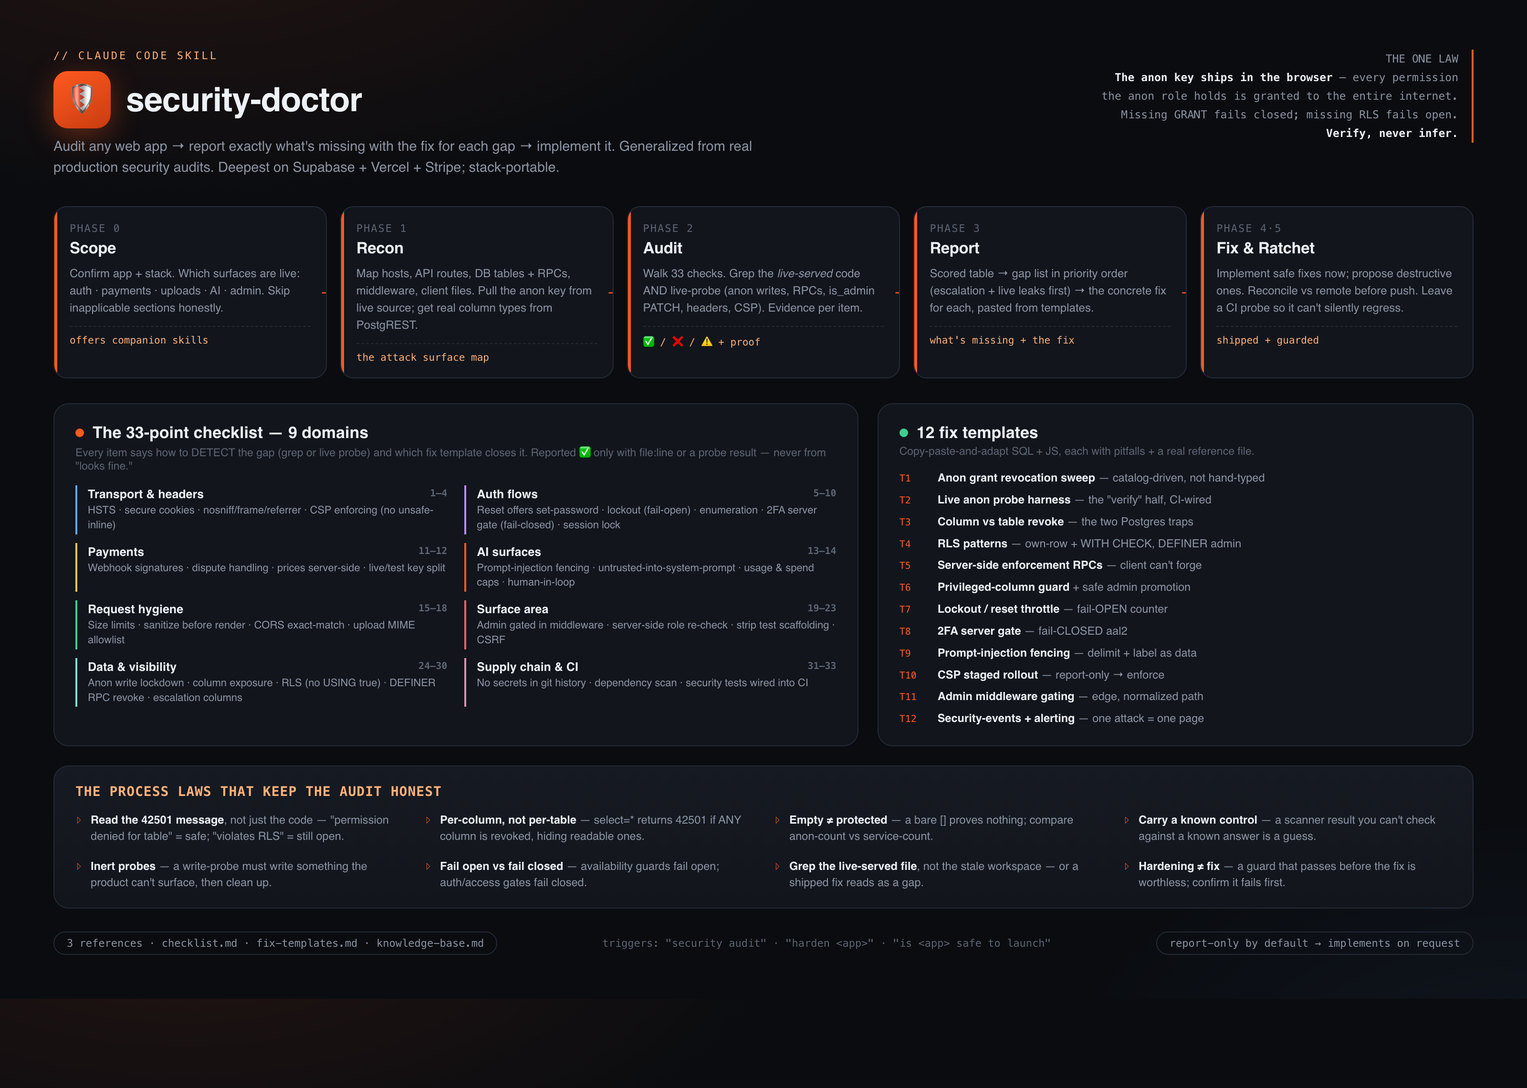
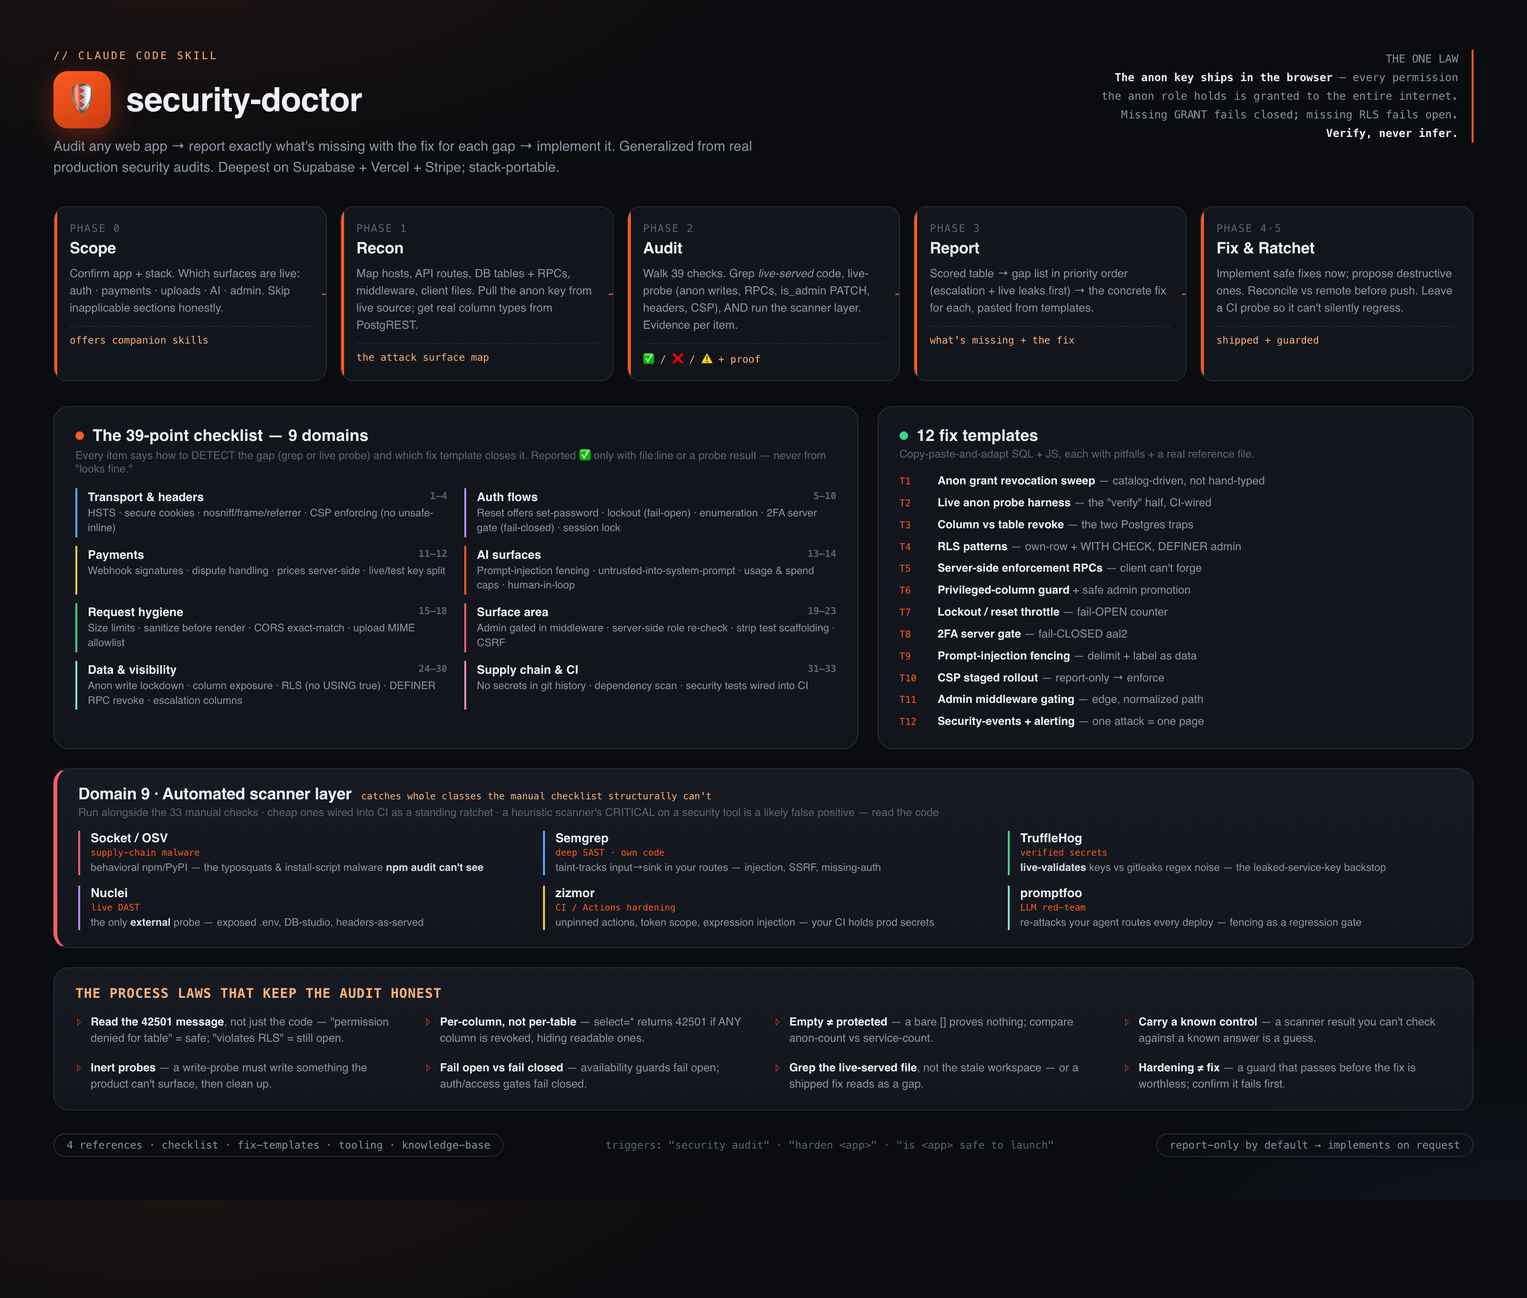
Add the scanner layer (domain 9): Semgrep, TruffleHog, Nuclei, zizmor, Socket/OSV, promptfoo
39-point checklist = 33 manual checks + a 6-tool automated scanner layer that catches
classes the manual pass structurally can't (supply-chain malware, own-code taint paths,
live external exposure, CI-workflow attack surface). New references/tooling.md with install
+ exact command per tool; README scanner-layer section; updated map.

diff --git a/SKILL.md b/SKILL.md
@@ -1,6 +1,6 @@
 ---
 name: security-doctor
-description: Audit any web app's security against a battle-tested 33-point checklist, report exactly what's missing with the fix for each gap, then implement the fixes. Covers anon/RLS lockdown, privilege-escalation, auth/2FA, CSP, prompt-injection, payments, and supply chain. Trigger on "security audit", "security check", "is <app> safe to launch", "harden <app>", "run the security checklist", or before launching any app/feature touching auth, payments, uploads, or AI. Stack-portable — deepest on Supabase + Vercel + Stripe.
+description: Audit any web app's security against a battle-tested 39-point checklist (33 manual checks + a 6-tool automated scanner layer), report exactly what's missing with the fix for each gap, then implement the fixes. Covers anon/RLS lockdown, privilege-escalation, auth/2FA, CSP, prompt-injection, payments, and supply chain — plus a scanner layer (Semgrep SAST, TruffleHog verified secrets, Nuclei live DAST, zizmor CI hardening, Socket supply-chain malware, promptfoo LLM red-team). Trigger on "security audit", "security check", "is <app> safe to launch", "harden <app>", "run the security checklist", or before launching any app/feature touching auth, payments, uploads, or AI. Stack-portable — deepest on Supabase + Vercel + Stripe.
 ---
 
 # Security Doctor
@@ -13,8 +13,9 @@ Built to be reusable across any app. The knowledge is generalized from real prod
 **The publishable/anon key ships in the client bundle — every permission the `anon` role holds is granted to the entire internet.** A missing GRANT fails closed; a missing RLS policy fails open. And: **verify, never infer** — a finding is real only when a live probe with the public key returned the denial code, not when code "looks admin-only." The five traps that fake success are in `references/checklist.md`; read them before reporting anything green.
 
 ## Reference files (load as needed — don't dump all into context)
-- `references/checklist.md` — the 33-item scored checklist: what to verify, how to detect each gap (grep/probe), and which fix template applies. **This is the audit spine.**
+- `references/checklist.md` — the 39-item scored checklist (33 manual + 6 scanner): what to verify, how to detect each gap (grep/probe/scan), and which fix template applies. **This is the audit spine.**
 - `references/fix-templates.md` — 12 copy-paste-and-adapt fixes (SQL + JS), each with pitfalls and the failure mode it closes.
+- `references/tooling.md` — the **scanner layer** (domain 9): Semgrep, TruffleHog, Nuclei, zizmor, Socket/OSV, promptfoo + audit-firm companion skills. Install + exact command + what class each catches that the manual pass can't. Load when running the automated pass or wiring CI.
 - `references/knowledge-base.md` — the *why* behind every check: the incident class that taught it, grouped by theme. Read a section when a finding is subtle or the user asks why.
 
 ## Workflow
@@ -35,7 +36,9 @@ Walk the checklist top to bottom. For each item:
 - Record status (✅/❌/⚠/⏭) **with evidence** — `file:line` or the exact probe result. Never mark ✅ from appearance.
 - Probing rules that keep you honest (full detail in `knowledge-base.md` §e): read the 42501 MESSAGE not just the code; send a REAL column value (a `{}` PATCH proves nothing); a bare `[]` proves nothing; probe PER COLUMN; carry a known-blocked AND a known-open control; probe inserts without `return=representation`. **Every probe that writes must write something the product cannot surface** (draft/inactive state, or a constraint-violating payload that never creates a row) — and clean up.
 
-For a large surface, fan out read-only sub-agents by section (DB/RLS, auth, CSP/headers, payments, AI, supply chain) and merge — but you own the merge and the live re-verification.
+**Run the scanner layer (domain 9 — `tooling.md`).** Alongside the manual checks, run the automated scanners that catch classes the checklist can't: **Semgrep** (SAST on the app's own code), **TruffleHog** `--only-verified` (secrets), **zizmor** (`.github/workflows/`) during the code pass; **Nuclei** (`-tags exposure,misconfiguration`, own/authorized hosts only) during the live pass; **Socket/OSV** at dependency review; **promptfoo** against tool-using LLM routes. Install one-liners + exact commands are in `tooling.md`. Record 0-finding runs as evidence, and confirm each scanner actually ran (a skipped/errored scan looks identical to a clean one). Treat a heuristic scanner's CRITICAL on a *security* skill/tool as a likely false positive — read the code before believing it.
+
+For a large surface, fan out read-only sub-agents by section (DB/RLS, auth, CSP/headers, payments, AI, supply chain, scanner layer) and merge — but you own the merge and the live re-verification.
 
 ### 3. Report (exactly what's missing + the fix)
 Produce, in the final message:
@@ -53,7 +56,7 @@ If the user was only *asking* whether the app is safe (not asking you to change 
 - Preview any UI-affecting change; then **verify live** the fix actually landed (real signal, known control) and **don't over-verify** — one clean pass, then ship.
 
 ### 5. Prove it (leave a ratchet)
-Where the stack supports it, leave the **anon-probe harness + source ratchet** ([T2]) wired into CI so the fix can't silently regress. A guard that passes before the fix is worthless — confirm it fails first.
+Where the stack supports it, leave the **anon-probe harness + source ratchet** ([T2]) wired into CI so the fix can't silently regress. A guard that passes before the fix is worthless — confirm it fails first. Add the cheap scanners to the same CI gate — **gitleaks + Semgrep (SARIF) + zizmor** on every push; **Nuclei** weekly / post-deploy; **promptfoo** on the agent routes (`tooling.md`). Each scanner in CI is a standing ratchet against the class it covers.
 
 ## Adapting to a non-Supabase / non-Vercel app
 The checklist's intent is universal; only the mechanism changes. Authorization must key on a server-trusted identity claim (not a client field); privileged fields must be non-writable by the client; every privileged route re-checks server-side; untrusted content into an LLM gets fenced; secrets never reach the client or git history; CSP/headers ship enforcing after a report-only bake. Translate each ⚙ item to the target's equivalent (row security, grants, middleware) and keep the process laws in `knowledge-base.md §i` verbatim — they're stack-agnostic.

diff --git a/references/tooling.md b/references/tooling.md
@@ -1,0 +1,70 @@
+# Security Doctor — The Scanner Layer
+
+The 33 manual checks are things you verify by hand or by live probe. This layer is the **automated scanners** that catch whole CLASSES the manual pass structurally can't see: supply-chain malware, your own code's taint paths, live external exposure, and CI-workflow attack surface. Run them as part of every audit; wire the cheap ones into CI as a ratchet.
+
+**They complement, never replace, the checklist** — and a scanner result still obeys *verify, never infer*: read the findings, carry a known control, and **never trust a CRITICAL from a heuristic scanner without reading the code** — a security *tool* and a security *threat* share vocabulary, so scanners routinely flag a security skill's own threat-catalog or defensive docs as malicious. (Seen in practice: a skill-scanner rated a top-tier audit firm's Semgrep runner CRITICAL because its SKILL.md said *"never auto-execute commands that modify…"* — the scanner matched the safety guidance as the threat.)
+
+## The six scanners
+
+### 1 · Supply-chain malware — Socket / OSV-Scanner
+**Gap:** `npm audit` only knows *disclosed CVEs*. It catches zero typosquats, hijacked-maintainer packages, or malicious install scripts — the packages with no advisory the day they land. This is the single class conventional SCA is structurally blind to.
+- **Socket** (behavioral, GitHub App) — flags a dependency that reads env, opens network, or runs install scripts. Install the GitHub App → it comments on PRs. Deepest on the JS ecosystem.
+- **OSV-Scanner** (CLI) — `osv-scanner scan --recursive .` — advisory + malicious-package feed; covers Python `requirements.txt` / Go too.
+Run on every dependency change.
+
+### 2 · Deep SAST on your own code — Semgrep CE
+**Gap:** nothing in the manual pass scans *your own code* semantically. Semgrep taint-tracks user input → sink: an unsanitized param into a DB `.rpc()`/raw SQL, `dangerouslySetInnerHTML`, an SSRF `fetch`, a route missing its auth check.
+```bash
+pipx install semgrep
+semgrep --config p/javascript --config p/nodejs --config p/owasp-top-ten \
+  --exclude vendor --exclude node_modules <src dirs>
+```
+Add `p/python`, `p/react`, `p/typescript`, `p/jwt`, `p/secrets`, `p/sql-injection` as the stack warrants. `--sarif -o out.sarif` for CI. Registry rulesets work out of the box; tune false positives over time.
+
+### 3 · Verified secrets — TruffleHog
+**Gap:** a regex secret scanner (gitleaks) tells you a string *looks* like a key — noise (rotated keys, examples, test values). TruffleHog **live-verifies** — it logs into the provider to confirm the key still works — turning "500 hits to triage" into "3 that actually work, rotate these." It also scans surfaces gitleaks doesn't: Docker images, cloud buckets, CI logs, a built mobile bundle.
+```bash
+brew install trufflehog
+trufflehog filesystem <dir> --results=verified,unknown
+trufflehog git <repo-url> --only-verified
+```
+Keep gitleaks for the fast full-history regex sweep; add TruffleHog as the verification layer on top. A leaked service-role / admin key bypasses ALL row-security work — this is the backstop.
+
+### 4 · Live DAST — Nuclei
+**Gap:** every manual check is static / config-time. Nuclei is the only *external* probe of the DEPLOYED app — exposed `.env`, exposed DB-studio / admin consoles, backup files, default creds, known-CVE fingerprints, and headers/CSP verified **as served from the edge** (not just as configured).
+```bash
+brew install nuclei
+nuclei -u https://<host> -tags exposure,misconfiguration \
+  -severity low,medium,high,critical -rate-limit 20
+```
+Own infra / authorized targets only. Run weekly or post-deploy, not per-commit. `-sarif-export` to fail CI.
+
+### 5 · CI / GitHub Actions hardening — zizmor
+**Gap:** once you run security IN CI, your CI *is* attack surface — it holds prod secrets. zizmor is SAST for workflow YAML: unpinned actions (tag not SHA — the supply-chain-poisoning class), expression injection via `${{ github.event.* }}`, over-broad `GITHUB_TOKEN`, credential persistence on checkout.
+```bash
+pipx install zizmor
+zizmor .github/workflows/
+```
+**Fix pattern:** pin every `uses:` to a full commit SHA; set job-level `permissions:` least-privilege; add `persist-credentials: false` to `actions/checkout`; never splice `github.event` text into a `run:` block (assign to an `env:` var first).
+
+### 6 · LLM red-team — promptfoo
+**Gap:** prompt-injection fencing is written once and never regression-tested. promptfoo turns "I fenced it" into a repeatable gate: it re-runs a jailbreak / injection / tool-abuse suite against your LLM ROUTE (system prompt + fences + tools) every deploy, so a prompt-template edit can't silently reopen the hole. It tests the *application*, which is what ships.
+```bash
+npm i -g promptfoo   # or: npx promptfoo@latest redteam run
+```
+Write a redteam config per LLM endpoint. Scope to **tool-using agent routes** (where injection → tool abuse is the real risk); overkill for a one-shot summarizer.
+
+## Companion agent skills (audit-firm methodology)
+Installable skills that add process the checklist doesn't have. Vet any third-party skill before install (a skill-scanner such as NVIDIA `skillspector`), but **read the code on any CRITICAL for a security skill** — false positives are the norm there.
+- **`differential-review`** (Trail of Bits) — security review of a git diff / PR; catches per-change regressions where the checklist audits whole-app state.
+- **`static-analysis` / semgrep** (Trail of Bits) — a fuller SAST pipeline (semgrep + CodeQL + SARIF merge) than a single semgrep pass.
+- **`agentic-actions-auditor`** (Trail of Bits) — audits AI-agent GitHub Actions for attacker input reaching the agent in CI; pairs with zizmor.
+
+## Where each fits the run
+- **Code pass:** Semgrep + TruffleHog + zizmor.
+- **Live pass:** Nuclei against every deployed host.
+- **Dependency review:** Socket / OSV.
+- **AI routes:** promptfoo.
+- **Ratchet (CI, every push):** gitleaks + Semgrep + zizmor + the anon-probe harness. Nuclei weekly. promptfoo on the agent routes.
+
+A scanner that finds nothing is a *result*, not a formality — record it (0 findings from Semgrep/TruffleHog/Nuclei is evidence the manual hardening held). And apply the same honesty as the rest of the audit: verify the scanner actually ran (a skipped/errored scan reads identical to a clean one).

diff --git a/README.md b/README.md
@@ -2,7 +2,7 @@
 
 **A Claude Code / agent skill that audits any web app's security, tells you exactly what's missing with the fix for each gap, and implements the fixes.**
 
-Most "security checklists" are lists of things to worry about. Security Doctor is different: every one of its 33 checks tells the agent **how to detect the gap in your actual codebase** (a grep pattern or a live probe against your running app), **which fix closes it** (one of 12 copy-paste SQL/JS templates), and **how to verify the fix actually landed** — so you get a scored report backed by evidence, not vibes.
+Most "security checklists" are lists of things to worry about. Security Doctor is different: every one of its 39 checks (33 manual + a 6-tool automated scanner layer) tells the agent **how to detect the gap in your actual codebase** (a grep pattern or a live probe against your running app), **which fix closes it** (one of 12 copy-paste SQL/JS templates), and **how to verify the fix actually landed** — so you get a scored report backed by evidence, not vibes.
 
 It's deepest on the **Supabase + Vercel + Stripe** stack (where a browser-shipped anon key makes every database permission a public one), but the underlying laws are stack-portable.
 
@@ -16,7 +16,7 @@ If your frontend talks to Supabase with a publishable/anon key, that key is in y
 
 Security Doctor was distilled from real production audits into a single reusable skill so you don't have to re-learn each of these the hard way.
 
-## What it checks (33 points, 9 domains)
+## What it checks (39 points, 9 domains)
 
 | Domain | Examples |
 |---|---|
@@ -46,6 +46,21 @@ Copy-paste-and-adapt SQL + JS, each with its pitfalls:
 11. Admin middleware host gating (edge, normalized pathname)
 12. Security-events table + alerting (one attack = one page)
 
+## The scanner layer (domain 9)
+
+The 33 manual checks are things you verify by hand or live probe. The scanner layer is the **automated tools that catch whole classes the manual pass structurally can't see** — supply-chain malware, your own code's taint paths, live external exposure, CI-workflow attack surface. Run them as part of every audit; wire the cheap ones into CI as a ratchet. Full install + commands in [`references/tooling.md`](references/tooling.md).
+
+| Tool | Catches what nothing else does |
+|---|---|
+| **Socket / OSV** | Supply-chain malware — typosquats, hijacked packages, malicious install scripts. `npm audit` only knows *disclosed CVEs*; this is the class it's structurally blind to. |
+| **Semgrep CE** | Deep SAST on **your own code** — taint-tracks user input → sink (injection, SSRF, a route missing its auth check). |
+| **TruffleHog** | **Verified** secrets — live-validates keys (logs into the provider) vs a regex scanner's noise. A leaked service-role key bypasses all your row-security work. |
+| **Nuclei** | Live DAST — the only *external* probe of the deployed app: exposed `.env`, exposed DB-studio, headers/CSP verified as *served from the edge*. |
+| **zizmor** | CI / GitHub Actions hardening — unpinned actions, expression injection, over-broad `GITHUB_TOKEN`. Once you run security in CI, your CI *is* attack surface. |
+| **promptfoo** | LLM red-team — re-attacks your agent routes every deploy so a prompt edit can't silently reopen the fencing. Turns manual fencing into a regression gate. |
+
+A scanner result still obeys *verify, never infer*: read the findings, carry a known control, and **never trust a CRITICAL from a heuristic scanner on a *security* tool without reading the code** — a security tool and a security threat share vocabulary, so scanners routinely flag a security skill's own threat catalog as malicious.
+
 ## The process laws that keep the audit honest
 
 The reason most self-audits produce false all-clears is a handful of subtle traps. Security Doctor bakes the counters in:
@@ -67,7 +82,7 @@ Scope → Recon → Audit → Report → Fix & Ratchet
 
 0. **Scope** — confirm the stack and which surfaces are live (auth / payments / uploads / AI / admin); skip inapplicable sections honestly.
 1. **Recon** — map hosts, API routes, DB tables + RPCs, middleware; pull the anon key from live source; get real column types from PostgREST.
-2. **Audit** — walk all 33 checks, grepping the *live-served* code **and** live-probing; record `✅ / ❌ / ⚠` with evidence per item.
+2. **Audit** — walk all 39 checks, grepping the *live-served* code, live-probing, **and** running the scanner layer; record `✅ / ❌ / ⚠` with evidence per item.
 3. **Report** — a scored table, then the gap list in priority order (unauthenticated escalation + live data leaks first), each with the concrete fix.
 4. **Fix** — implement the safe, reversible fixes in the same pass; propose destructive/broad ones with the exact migration.
 5. **Ratchet** — leave a CI probe so the fix can't silently regress (a guard that passes before the fix is worthless).
@@ -100,7 +115,8 @@ The skill loads its checklist, runs the loop above, and hands you the scored rep
 ```
 SKILL.md                      # the workflow the agent follows
 references/
-  checklist.md                # the 33-item scored checklist (detect + fix-ref per item)
+  checklist.md                # the 39-item scored checklist (detect + fix-ref per item)
+  tooling.md                  # the scanner layer — Semgrep, TruffleHog, Nuclei, zizmor, Socket, promptfoo
   fix-templates.md            # 12 copy-paste-and-adapt SQL/JS fixes, with pitfalls
   knowledge-base.md           # the "why" behind every check, grouped by theme
 security-doctor-map.png       # one-page visual of the whole skill

diff --git a/references/checklist.md b/references/checklist.md
@@ -1,6 +1,6 @@
 # Security Doctor — The Checklist
 
-The scored audit. Each item: what to verify, how to detect the gap (grep or live probe), and the fix-template number ([T#] in `fix-templates.md`). **Report a checkbox as ✅ only with file:line evidence or a live-probe result — never from "looks fine."** Status values: ✅ done · ❌ gap · ⚠ partial/hardening-only · ⏭ n/a (say why).
+The scored audit — 33 manual checks (verify by hand/probe) + a 6-tool **scanner layer** (domain 9, items 34–39; see `tooling.md`). Each item: what to verify, how to detect the gap (grep or live probe), and the fix-template number ([T#] in `fix-templates.md`). **Report a checkbox as ✅ only with file:line evidence or a live-probe/scanner result — never from "looks fine."** Status values: ✅ done · ❌ gap · ⚠ partial/hardening-only · ⏭ n/a (say why).
 
 Items marked ⚙ are stack-specific (Supabase/Vercel) — translate the intent for other stacks; the underlying law (in `knowledge-base.md`) is portable.
 
@@ -54,6 +54,15 @@ Items marked ⚙ are stack-specific (Supabase/Vercel) — translate the intent f
 33. **Security tests wired into CI** — the anon-probe harness + source ratchet run in an actual CI job; every new assertion FAILS against the unfixed state first. [T2]
 
 ---
-**Scoring output:** a table `item · status · evidence (file:line or live-probe result)`, then the gap list in priority order (live-fire / unauthenticated-escalation first), then fixes. Small fixes: implement in the same pass. Big/destructive: propose first.
+## Automated scanner layer (domain 9 — run alongside the manual checks; catches classes the checklist structurally can't. Full detail in `tooling.md`)
+34. **Supply-chain malware** — Socket (behavioral) or OSV-Scanner on every dependency change. `npm audit` only knows disclosed CVEs; this catches typosquats / hijacked / malicious-install-script packages with no advisory yet. [Tooling §1]
+35. **Deep SAST on own code** — Semgrep (`p/javascript p/nodejs p/owasp-top-ten` + stack rulesets) taint-tracks input→sink in your own routes. No SAST otherwise. [Tooling §2]
+36. **Verified secrets** — TruffleHog `--only-verified` / `--results=verified,unknown` live-validates keys (a leaked service-role key bypasses all RLS). Layer on top of gitleaks, don't replace. [Tooling §3]
+37. **Live DAST** — Nuclei (`-tags exposure,misconfiguration`) against every deployed host; the only *external* probe (exposed `.env`, DB-studio leak, headers-as-served). Own/authorized targets, weekly. [Tooling §4]
+38. **CI / Actions hardening** — zizmor on `.github/workflows/`: unpinned actions (SHA-pin), `${{ github.event.* }}` injection, over-broad `GITHUB_TOKEN`, `persist-credentials`. Your CI holds prod secrets = attack surface. [Tooling §5]
+39. **LLM red-team regression** — promptfoo redteam suite per tool-using agent route, so a prompt edit can't silently reopen the fencing. Turns manual fencing into a CI gate. [Tooling §6]
+
+---
+**Scoring output:** a table `item · status · evidence (file:line, live-probe, or scanner result)`, then the gap list in priority order (live-fire / unauthenticated-escalation first), then fixes. Small fixes: implement in the same pass. Big/destructive: propose first. Record 0-finding scanner runs as evidence — and verify each scanner actually ran (a skipped/errored scan reads identical to a clean one).
 
 **The five traps that look like success:** (a) a test that passed because it never ran (empty body, skipped-when-unconfigured, `before()` skip-eval bug); (b) an error from the wrong layer (PGRST204/PGRST202/22P02 ≠ denied); (c) revoking a column while the table grant stands (silent no-op); (d) assuming a function is private from its name (read the code path); (e) fixing the DB before deploying the client change (deploy the query fix first).
